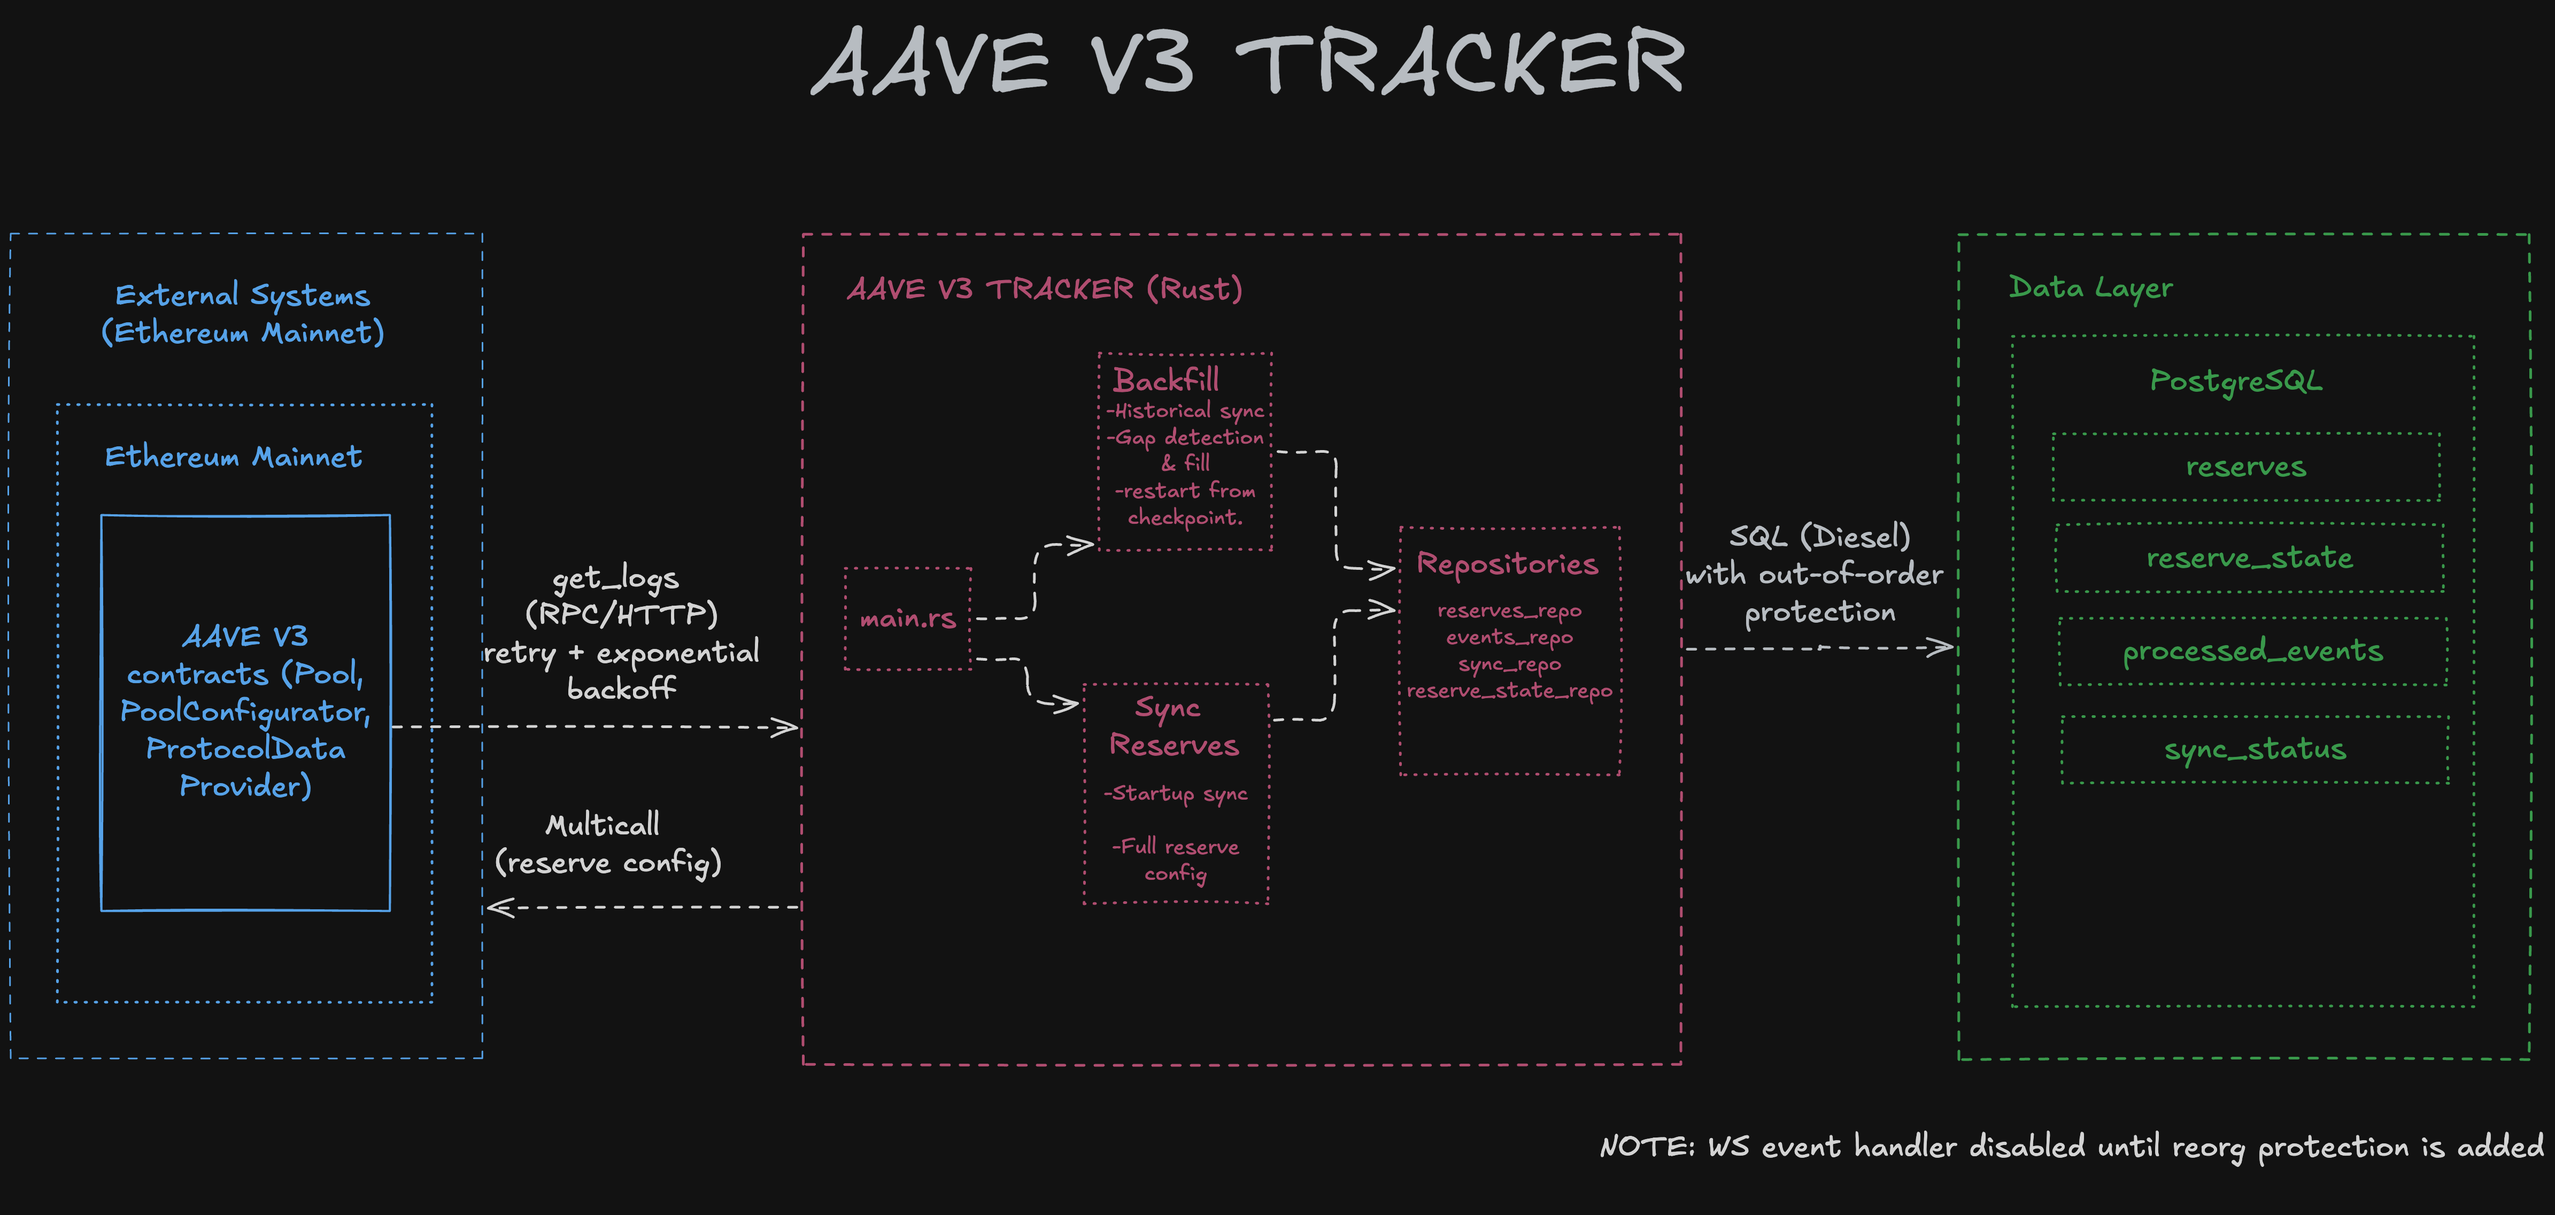
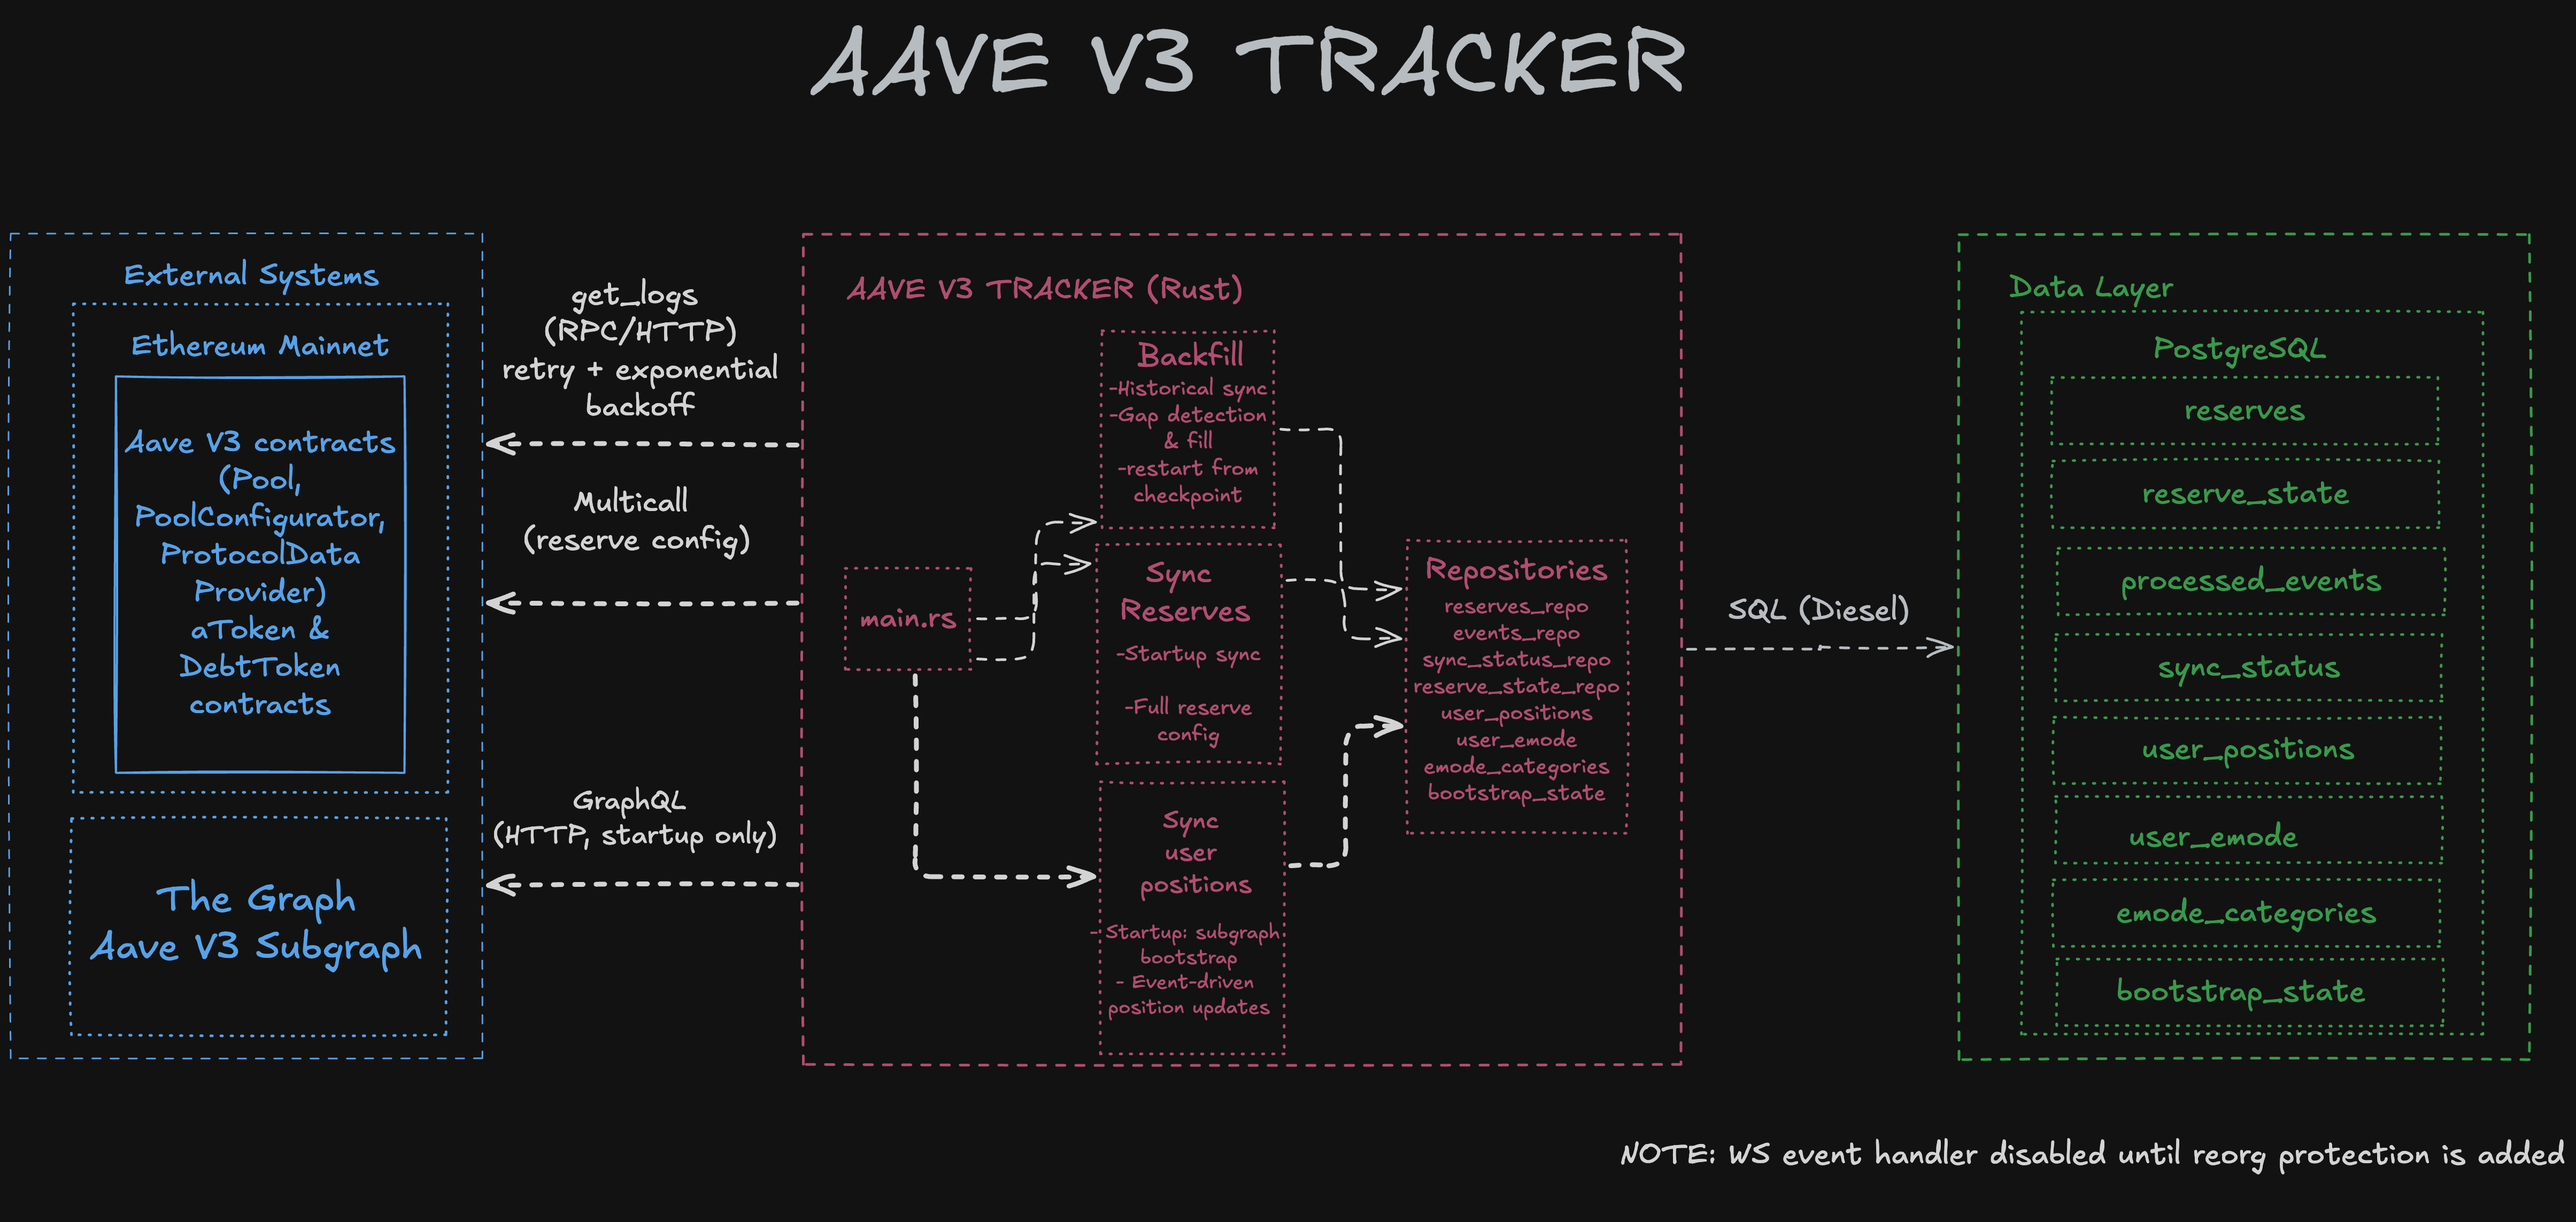
docs(readme): update project description, setup guide, and schema docs

diff --git a/README.md b/README.md
@@ -1,16 +1,72 @@
 # Aave V3 Tracker
 
-Indexes Aave V3 protocol data on Ethereum to PostgreSQL with replay-safe event processing. Tracks reserve configs and interest metrics.
+An Ethereum event indexer for the Aave V3 core Ethereum market that stores protocol state in PostgreSQL. Tracks reserve configurations, interest rate state, user supply/borrow positions, and eMode categories.
+
+## Tech Stack
+
+- **Rust** (edition 2024) — async runtime via [tokio](https://tokio.rs)
+- **PostgreSQL** — primary data store
+- **Diesel** (async)
+- **[alloy](https://github.com/alloy-rs/alloy)** — Ethereum provider, ABI decoding, multicall
+- **testcontainers** — real PostgreSQL instances spun up per test
+
+## How to Run
+
+**Prerequisites:**
+- [Rust](https://rustup.rs)
+- PostgreSQL (running locally)
+- `diesel_cli`: `cargo install diesel_cli --no-default-features --features postgres`
+- Docker (required for tests)
+
+**1. Configure environment**
+
+Create a `.env` file at the project root (`.env` is gitignored):
+
+```
+# PostgreSQL connection string
+DATABASE_URL=postgres://user:password@localhost:5432/aave_v3_tracker
+
+# Comma-separated list of HTTP RPC endpoints, tried in order on failure
+HTTP_RPC_URLS=https://eth-mainnet.g.alchemy.com/v2/<key>,https://eth.llamarpc.com
+
+# Required for historical user position data — bootstraps positions from The Graph before
+# event replay. Without this, position tracking starts from the current block only.
+SUBGRAPH_API_KEY=<key>
+```
+
+The PostgreSQL user must have `CREATEDB` privilege for `diesel setup` to create the database. On a fresh local install this is usually the case for the default superuser.
+
+**2. Create database and run migrations**
+
+```bash
+diesel setup
+```
+
+**3. Start the indexer**
+
+```bash
+cargo run
+```
+
+On first run with an empty database, the indexer fetches the current reserve snapshot via multicall before starting the backfill loop. If `SUBGRAPH_API_KEY` is set, it also bootstraps historical user positions from The Graph before beginning event replay.
+
+**4. Run tests**
+
+```bash
+cargo test
+```
+
+Tests require Docker to be **installed and running** — testcontainers spins up a real PostgreSQL container for each test. If Docker is not running, tests will fail.
 
 ## Architecture
-
-### Planned Architecture
-
-![AAVE V3 Tracker Architecture](./docs/architecture-planned.png)
 
 ### Current Architecture
 
 ![AAVE V3 Tracker Current Architecture](./docs/current-architecture.png)
+
+### Planned Architecture
+
+![AAVE V3 Tracker Architecture](./docs/architecture-planned.png)
 
 ## Features
 
@@ -22,13 +78,13 @@ Indexes Aave V3 protocol data on Ethereum to PostgreSQL with replay-safe event p
 - Transaction-wrapped writes for atomicity
 - Exponential backoff with jitter on transient errors
 - Multi-RPC provider with automatic failover on provider errors
-
-### In Progress
-
 - Tracking user positions (supply, borrow, collateral state per asset)
+- Tracking user eMode category assignments
+- Tracking eMode category definitions (LTV, liquidation parameters, asset bitmaps)
 
 ### Planned
 
+- Tracking total supply per reserve (aggregated from aToken Mint/Burn events)
 - Fetching asset prices
 - Tracking protocol contract address changes via address provider events
 - Calculating users' health factors
@@ -38,12 +94,15 @@ Indexes Aave V3 protocol data on Ethereum to PostgreSQL with replay-safe event p
 - Reorg handling is not implemented. To avoid inconsistencies, WebSocket indexing is disabled and events are written to the database via backfill only, with a ~20 block delay. As a result, indexed data is not real-time and may arrive with latency.
 - It has been noticed that the Subgraph data used to bootstrap user positions may contain inaccuracies. Since the Subgraph is an external data source, it can have its own indexing issues or rounding differences. Any inaccuracy in the initial bootstrap state propagates into all subsequent position updates for that user.
 - Scaled balance computations may drift by ±1 wei per event due to `rayDiv`/`rayMul` rounding in Aave's fixed-point arithmetic. This error may accumulate for users with many transactions and is a protocol-level property, not a bug in this indexer — the discrepancy is visible on-chain even between `Supply` and `Mint` events within the same transaction (e.g. [this example](https://etherscan.io/tx/0x5e9eb74f9f6130d951053c5a7fefdae88b229d28e0a53c3604fff66124319e91#eventlog)).
+- Aave V3 Pool and PoolConfigurator addresses are hardcoded. If the protocol upgrades and deploys new contract addresses via the `PoolAddressesProvider`, the indexer will not detect the change and will silently stop receiving events from the new contracts. Tracking address provider events is listed as a planned feature.
 
 ## Database Schema
 
 - **reserves** - Asset-level configuration and risk parameters (mostly static, but updatable via governance)
 - **reserve_state** - Latest on-chain reserve state derived from events (rates, indices, liquidity, debt, treasury accruals)
 - **user_positions** - Per-user, per-asset position state (scaled aToken balance, scaled variable debt, collateral flag)
+- **emode_categories** - Efficiency mode category definitions (LTV, liquidation threshold/bonus, collateral/borrowable/ltvzero bitmaps, label)
+- **user_emode** - Per-user active eMode category (category 0 = no eMode)
 - **processed_events** - Deduplication log tracking processed tx hash + log index pairs
 - **sync_status** - Backfill checkpoint storing last processed block number
 - **bootstrap_state** - Subgraph bootstrap progress: cursor, meta block, and completion flag
@@ -56,6 +115,7 @@ Indexes Aave V3 protocol data on Ethereum to PostgreSQL with replay-safe event p
 - **ReserveDataUpdated** - Interest rates and indices changed
 - **ReserveUsedAsCollateralEnabled** - User enabled an asset as collateral
 - **ReserveUsedAsCollateralDisabled** - User disabled an asset as collateral
+- **UserEModeSet** - User switched to a different eMode category (0 = disabled)
 
 ### PoolConfigurator
 
@@ -72,7 +132,10 @@ Indexes Aave V3 protocol data on Ethereum to PostgreSQL with replay-safe event p
 - **DebtCeilingChanged** - Isolation mode debt ceiling updated
 - **LiquidationProtocolFeeChanged** - Liquidation fee updated
 - **ReserveFlashLoaning** - Flash loan availability toggled
-- **EModeAssetCategoryChanged** - Efficiency mode category changed
+- **EModeCategoryAdded** - New efficiency mode category created or updated
+- **AssetCollateralInEModeChanged** - Asset collateral eligibility within an eMode category changed
+- **AssetBorrowableInEModeChanged** - Asset borrowability within an eMode category changed
+- **AssetLtvzeroInEModeChanged** - Asset zero-LTV flag within an eMode category changed
 - **SiloedBorrowingChanged** - Siloed borrowing status changed
 - **UnbackedMintCapChanged** - Unbacked mint cap updated
 
